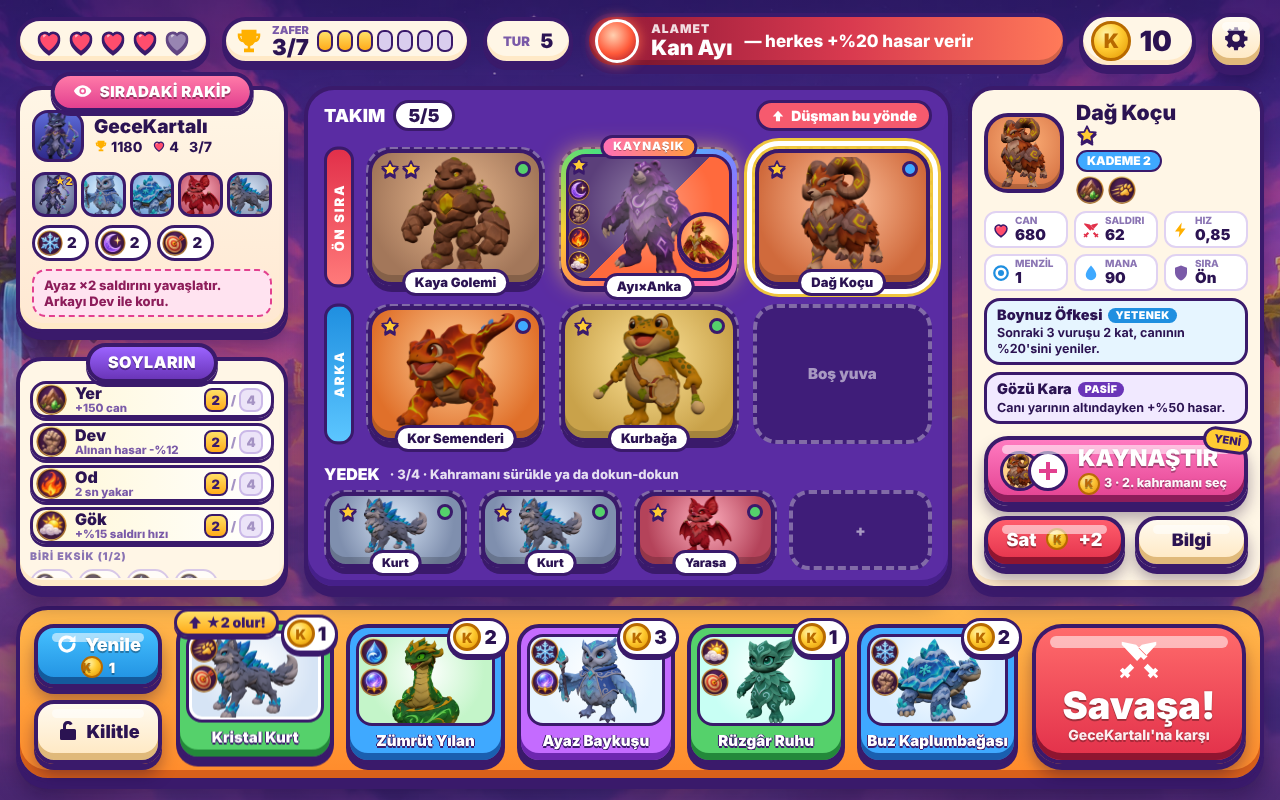
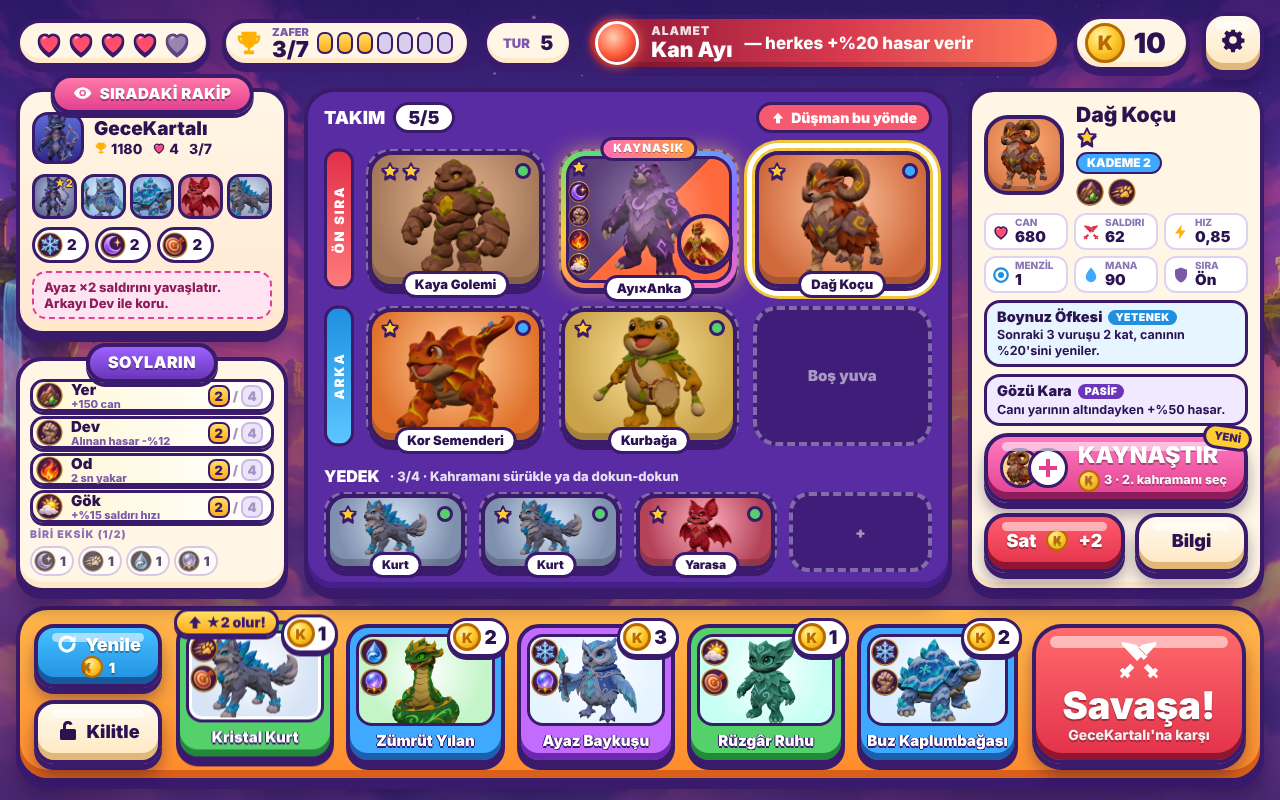
Kut Arena web: oyun mantığı modülü (oyun.js) ve testi; 3D sahnede gökyüzü, orta çizgi parıltısı, hasar sayısı yerleşimi düzeltildi
Claude-Session: https://claude.ai/code/session_013YjY38u1QoWroDMBh9Egyh

diff --git a/kut/tasarim/oneri_C/index.html b/kut/tasarim/oneri_C/index.html
@@ -51,7 +51,7 @@ button{font-family:inherit;border:0;background:none;color:inherit;cursor:pointer
 
 /* ---------- Şişkin düğme ---------- */
 .tb{--a:var(--altin);--b:var(--altin2);--k:var(--altinK);
-  position:relative;display:flex;align-items:center;justify-content:center;gap:10px;min-height:56px;min-width:56px;
+  position:relative;display:flex;align-items:center;justify-content:center;gap:10px;min-height:60px;min-width:60px;
   padding:0 20px 6px;border-radius:22px;border:4px solid var(--cizgi);font-weight:900;font-size:20px;color:#fff;
   background:linear-gradient(180deg,var(--a) 0%,var(--b) 100%);
   box-shadow:inset 0 -7px 0 var(--k),0 6px 0 var(--cizgi),0 12px 16px rgba(20,4,50,.35);
@@ -118,7 +118,7 @@ button{font-family:inherit;border:0;background:none;color:inherit;cursor:pointer
    2) MAÇ (DÜKKÂN + TAHTA)
    ===================================================================== */
 #mac .gok::after{background:linear-gradient(180deg,rgba(29,11,61,.55),rgba(29,11,61,.25) 30%,rgba(29,11,61,.55))}
-.macIzgara{position:absolute;inset:0;padding:12px 16px 18px;display:grid;grid-template-columns:272px 1fr 296px;grid-template-rows:58px 1fr 176px;gap:16px 16px}
+.macIzgara{position:absolute;inset:0;padding:12px 16px 18px;display:grid;grid-template-columns:272px 1fr 296px;grid-template-rows:62px 1fr 176px;gap:14px 16px}
 /* üst çubuk */
 .ustCubuk{grid-column:1/-1;display:flex;align-items:center;gap:12px}
 .canlar{display:flex;gap:2px;align-items:center}
@@ -137,7 +137,7 @@ button{font-family:inherit;border:0;background:none;color:inherit;cursor:pointer
 .altinHap .para{width:40px;height:40px;font-size:20px;border-width:3px}
 
 /* sol sütun */
-.solSutun{display:flex;flex-direction:column;gap:24px;min-height:0}
+.solSutun{display:flex;flex-direction:column;gap:22px;min-height:0}
 .rakipKart{padding:20px 12px 12px;background:linear-gradient(180deg,#fff6e6,#ffe8d2)}
 .rakipKart .baslikSerit{background:linear-gradient(#ff7aa8,#e2408f);font-size:15px}
 .rakipKart .baslikSerit svg{width:20px;height:20px}
@@ -156,19 +156,19 @@ button{font-family:inherit;border:0;background:none;color:inherit;cursor:pointer
 .soyCip img{width:26px;height:26px}
 .rakipIpucu{margin-top:8px;padding:6px 10px;border-radius:14px;background:#ffe3f0;border:2px dashed #e2408f;font-size:13px;font-weight:800;color:#8d1d5a;line-height:1.25}
 
-.soyPanel{flex:1;min-height:0;padding:20px 10px 8px;display:flex;flex-direction:column}
+.soyPanel{flex:1;min-height:0;padding:18px 10px 8px;display:flex;flex-direction:column}
 .soyPanel .baslikSerit{background:linear-gradient(#9b63ff,#6a35b8)}
-.soyListe{display:flex;flex-direction:column;gap:5px;overflow:hidden}
-.soySatir{display:flex;align-items:center;gap:8px;height:37px;flex:none;padding:0 8px 0 3px;border-radius:16px;background:#fff;border:3px solid #d9c9f0}
-.soySatir img{width:31px;height:31px}
+.soyListe{display:flex;flex-direction:column;gap:4px;overflow:hidden}
+.soySatir{display:flex;align-items:center;gap:8px;height:33px;flex:none;padding:0 8px 0 3px;border-radius:14px;background:#fff;border:3px solid #d9c9f0}
+.soySatir img{width:27px;height:27px}
 .soyDiger{display:flex;flex-wrap:nowrap;gap:4px;margin-top:1px}
 .soyDiger .soyCip{font-size:13px;opacity:.75;border-color:#cbb9e8;padding-right:6px;border-width:2px}
 .soyDiger .soyCip img{width:22px;height:22px;filter:grayscale(.6)}
 .soyDigerB{font-size:10.5px;font-weight:900;color:#8a74b3;letter-spacing:1px;margin-top:1px}
-.soySatir .ad{flex:1;font-weight:900;font-size:16px;line-height:1}
-.soySatir .ad small{display:block;font-size:11.5px;font-weight:800;color:#7a5aa8;margin-top:2px;white-space:nowrap}
+.soySatir .ad{flex:1;font-weight:900;font-size:15px;line-height:1}
+.soySatir .ad small{display:block;font-size:11px;font-weight:800;color:#7a5aa8;margin-top:2px;white-space:nowrap}
 .esik{display:flex;align-items:center;gap:3px;font-weight:900;font-size:13px;color:#a593c4}
-.esik i{display:grid;place-items:center;width:24px;height:24px;border-radius:8px;background:#ece4f8;border:2px solid #cbb9e8;font-style:normal}
+.esik i{display:grid;place-items:center;width:22px;height:22px;border-radius:8px;background:#ece4f8;border:2px solid #cbb9e8;font-style:normal}
 .soySatir.aktif{border-color:var(--cizgi);background:linear-gradient(90deg,#fff7d6,#fff);box-shadow:0 3px 0 var(--cizgi)}
 .soySatir.aktif .esik i.on{background:linear-gradient(#ffe066,#ffab1a);border-color:var(--cizgi);color:var(--cizgi)}
 .soySatir.pasif{opacity:.62}
@@ -246,7 +246,7 @@ button{font-family:inherit;border:0;background:none;color:inherit;cursor:pointer
 .kaynastirTb .metin small{font-size:12.5px;white-space:nowrap;display:flex;align-items:center;gap:4px;margin-top:3px}
 .kaynastirTb::after{content:"YENİ";position:absolute;right:-8px;top:-12px;padding:2px 8px 3px;border-radius:999px;background:var(--altin);border:3px solid var(--cizgi);color:var(--cizgi);font-size:11px;text-shadow:none;transform:rotate(8deg)}
 .satSira{display:flex;gap:10px}
-.satSira .tb{flex:1;font-size:18px;min-height:52px}
+.satSira .tb{flex:1;font-size:18px;min-height:60px}
 
 /* alt: dükkân */
 .dukkanCubuk{grid-column:1/-1;display:flex;gap:14px;align-items:stretch;padding:14px 14px 14px;border-radius:32px;
@@ -330,7 +330,7 @@ button{font-family:inherit;border:0;background:none;color:inherit;cursor:pointer
 .alametMini{display:flex;align-items:center;gap:8px;height:50px;padding:0 14px 0 4px;border-radius:999px;background:linear-gradient(90deg,#8d1636,#d93a4f);border:3px solid var(--cizgi);color:#fff;font-weight:900;font-size:15px;box-shadow:0 4px 0 var(--cizgi)}
 .alametMini .ay{width:32px;height:32px;border-radius:50%;background:radial-gradient(circle at 40% 35%,#ffd0b0,#ff5a3a 55%,#a3122a);border:2px solid #fff}
 .hizSec{display:flex;padding:4px;border-radius:24px;background:var(--krem);border:4px solid var(--cizgi);box-shadow:inset 0 -5px 0 var(--krem2),0 5px 0 var(--cizgi);gap:4px}
-.hizSec button{width:56px;height:50px;border-radius:17px;font-weight:900;font-size:21px;color:#8a74b3}
+.hizSec button{width:62px;height:58px;border-radius:17px;font-weight:900;font-size:21px;color:#8a74b3}
 .hizSec button.on{background:linear-gradient(var(--mavi),var(--mavi2));color:#fff;border:3px solid var(--cizgi);box-shadow:inset 0 -4px 0 var(--maviK);text-shadow:0 2px 0 rgba(0,0,0,.25)}
 .durdurTb{width:62px;height:62px;padding:0 0 6px;border-radius:22px;font-size:26px}
 .durdurTb::before{left:10px;right:10px}
@@ -376,7 +376,7 @@ button{font-family:inherit;border:0;background:none;color:inherit;cursor:pointer
    4) MAÇ SONU
    ===================================================================== */
 #son .kartAlan{position:absolute;inset:0;display:flex;align-items:center;justify-content:center;padding:44px 24px 24px}
-.sonKart{width:900px;padding:58px 34px 28px;display:flex;flex-direction:column;gap:18px}
+.sonKart{width:960px;padding:58px 34px 28px;display:flex;flex-direction:column;gap:18px}
 .sonSerit{position:absolute;left:50%;top:-56px;transform:translateX(-50%);display:flex;align-items:center;justify-content:center;width:520px;height:100px;border-radius:34px;
   background:linear-gradient(180deg,#5af08a,#1fae55);border:5px solid var(--cizgi);box-shadow:inset 0 -9px 0 rgba(0,0,0,.18),0 7px 0 var(--cizgi)}
 .sonSerit h2{font-size:64px;font-weight:900;letter-spacing:3px}
@@ -386,11 +386,11 @@ button{font-family:inherit;border:0;background:none;color:inherit;cursor:pointer
 .bolum{display:flex;align-items:center;gap:16px}
 .bolum>label{width:120px;font-weight:900;font-size:15px;color:#7a5aa8;text-align:right;flex:none;line-height:1.15}
 .turGecmis{display:flex;gap:8px;flex-wrap:wrap}
-.turTop{width:52px;height:56px;border-radius:18px;border:3px solid var(--cizgi);display:flex;flex-direction:column;align-items:center;justify-content:center;font-weight:900;color:#fff;box-shadow:inset 0 -5px 0 rgba(0,0,0,.18),0 4px 0 var(--cizgi);text-shadow:0 2px 0 rgba(0,0,0,.25)}
+.turTop{width:50px;height:56px;border-radius:18px;border:3px solid var(--cizgi);display:flex;flex-direction:column;align-items:center;justify-content:center;font-weight:900;color:#fff;box-shadow:inset 0 -5px 0 rgba(0,0,0,.18),0 4px 0 var(--cizgi);text-shadow:0 2px 0 rgba(0,0,0,.25)}
 .turTop small{font-size:10px;opacity:.9}
 .turTop b{font-size:21px;line-height:1}
 .turTop.k{background:linear-gradient(#5af08a,#22b552)}.turTop.y{background:linear-gradient(#ff8a96,#e2304a)}
-.kupaSatir{flex:1;display:flex;align-items:center;gap:14px}
+.kupaSatir{flex:1;min-width:0;display:flex;align-items:center;gap:14px}
 .kupaBar{flex:1;height:30px;border-radius:999px;background:#e9def8;border:3px solid var(--cizgi);position:relative;overflow:hidden}
 .kupaBar i{position:absolute;left:0;top:0;bottom:0;width:62%;background:linear-gradient(#ffe066,#ffab1a);border-radius:999px}
 .kupaBar i.yeni{left:62%;width:9%;background:linear-gradient(#7af59a,#22b552);border-radius:0 999px 999px 0}
@@ -407,9 +407,9 @@ button{font-family:inherit;border:0;background:none;color:inherit;cursor:pointer
 .sonTakim .miniP .ek img{position:static;width:120%;margin:0 0 0 -10%}
 .ustalikCip{display:flex;align-items:center;gap:5px;padding:4px 12px 5px 4px;border-radius:999px;background:#f1e9ff;border:3px solid var(--mor2);font-weight:900;font-size:14px;color:var(--mor2);margin-left:auto}
 .ustalikCip .rz{width:28px;height:28px;border-radius:50%;background:linear-gradient(#b98bff,#7339e0);display:grid;place-items:center;color:#fff;border:2px solid var(--cizgi)}
-.kodSatir{flex:1;display:flex;gap:10px;align-items:center}
-.kodKutu{flex:1;min-width:0;height:60px;display:flex;align-items:center;padding:0 16px;border-radius:18px;background:#2a1250;border:4px solid var(--cizgi);color:#ffe066;font-family:"JetBrains Mono",ui-monospace,monospace;font-weight:800;font-size:17px;letter-spacing:.5px;white-space:nowrap;overflow:hidden;text-overflow:ellipsis;box-shadow:inset 0 5px 0 rgba(0,0,0,.35)}
-.kodSatir .tb{min-height:60px;font-size:18px;padding:0 16px 6px;flex:none}
+.kodSatir{flex:1;min-width:0;display:flex;gap:10px;align-items:center}
+.kodKutu{flex:1;min-width:0;height:60px;display:flex;align-items:center;padding:0 16px;border-radius:18px;background:#2a1250;border:4px solid var(--cizgi);color:#ffe066;font-family:"JetBrains Mono",ui-monospace,monospace;font-weight:800;font-size:15px;letter-spacing:0;white-space:nowrap;overflow:hidden;text-overflow:ellipsis;box-shadow:inset 0 5px 0 rgba(0,0,0,.35)}
+.kodSatir .tb{min-height:60px;font-size:18px;padding:0 14px 6px;flex:none}
 .sonDugme{display:flex;gap:16px;justify-content:center;margin-top:6px}
 .sonDugme .tb{min-height:78px;font-size:28px;border-radius:28px;padding:0 34px 7px}
 .sonDugme .tb svg{width:32px;height:32px}
@@ -505,7 +505,7 @@ button{font-family:inherit;border:0;background:none;color:inherit;cursor:pointer
         <div class="hap" style="padding:0 16px;font-size:20px"><span style="font-size:13px;color:#7a5aa8;margin-right:2px">TUR</span>5</div>
         <div class="alametSerit"><div class="ay"></div><div style="min-width:0;display:flex;flex-direction:column"><small>ALAMET</small><b>Kan Ayı</b></div><span>— herkes +%20 hasar verir</span></div>
         <div class="hap altinHap"><span class="para">K</span>10</div>
-        <button class="tb krem yuvarlakTb" style="width:56px;height:56px;font-size:26px" aria-label="Ayarlar"><svg class="i"><use href="#i-cark"/></svg></button>
+        <button class="tb krem yuvarlakTb" style="width:62px;height:62px;font-size:26px" aria-label="Ayarlar"><svg class="i"><use href="#i-cark"/></svg></button>
       </div>
 
       <!-- sol -->
@@ -591,7 +591,7 @@ button{font-family:inherit;border:0;background:none;color:inherit;cursor:pointer
     <div class="kartAlan">
       <div class="panel sonKart">
         <div class="sonSerit"><div class="kup s"><svg class="i"><use href="#i-yildiz"/></svg></div><h2 class="kontur">ŞAMPİYON!</h2><div class="kup g"><svg class="i"><use href="#i-kupa"/></svg></div></div>
-        <div class="sonAlt">7 zafer · 9 turda · 2 can kaldı</div>
+        <div class="sonAlt">7 zafer · 10 turda · 2 can kaldı</div>
         <div class="bolum"><label>TUR<br>GEÇMİŞİ</label><div class="turGecmis" id="turGecmis"></div></div>
         <div class="bolum"><label>KUPA</label>
           <div class="kupaSatir"><div class="say"><svg class="i"><use href="#i-kupa"/></svg>1200</div><div class="kupaBar"><i></i><i class="yeni"></i></div><div class="say"><svg class="i"><use href="#i-kupa"/></svg>1240</div><div class="degisim">+40</div></div></div>
@@ -726,7 +726,7 @@ button{font-family:inherit;border:0;background:none;color:inherit;cursor:pointer
     <div class="hasar" style="left:28%;top:24%">-62</div>
     <div class="hasar yet" style="left:61%;top:33%">-320</div>
     <div class="yetEtiket" style="left:61%;top:26.5%">Kara Gölge!</div>
-    <div class="hasar iyi" style="left:45%;top:64%">+110</div>
+    <div class="hasar iyi" style="left:47%;top:69%">+110</div>
     <div class="hasar kalk" style="left:28%;top:49%">+90 kalkan</div>
     <div class="hasar" style="left:71%;top:50%">-48</div>`);
   $('skorB').innerHTML=[1,1,1,1,1].map(()=>'<i></i>').join('');
@@ -751,7 +751,7 @@ button{font-family:inherit;border:0;background:none;color:inherit;cursor:pointer
   }
 
   /* ----- SON ----- */
-  const turlar=['k','k','y','k','y','k','k','y','k'];
+  const turlar=['k','k','y','k','y','k','k','y','k','k'];
   $('turGecmis').innerHTML=turlar.map((t,i)=>`<div class="turTop ${t}"><small>TUR</small><b>${i+1}</b></div>`).join('');
   const sonT=[['golem',3],['ayi',2,'anka'],['koc',2],['semender',1],['kurbaga',2],['baykus',1]];
   $('sonTakim').innerHTML=sonT.map(([id,s,f])=>f

diff --git a/kut/web/oyun.js b/kut/web/oyun.js
@@ -1,0 +1,138 @@
+/* Kut Arena — oyun mantığı (arayüzden bağımsız). Kurallar ../TASARIM.md; prototip ../game.js ile aynı.
+   Arayüz yalnız durumu okur (oyun.P, oyun.M) ve eylemleri çağırır; her değişiklikten sonra 'degisti' olayı gelir. */
+const D = window.KUT_DATA, S = window.KUT_SIM, O = window.KUT_ONLINE, K = D.KURAL;
+const PANAHTAR = 'kut.profil.v2';
+
+export class Oyun {
+  constructor() {
+    this.P = this._oku() || { kupa: 0, usta: {}, oyuncu: Math.random().toString(36).slice(2, 10), ad: 'Oyuncu', sonTakim: null, mac: null, istat: { mac: 0, birinci: 0 } };
+    this.M = this.P.mac; this.secili = null; this.kaynasMod = false; this._dinle = {};
+  }
+  on(olay, fn) { (this._dinle[olay] = this._dinle[olay] || []).push(fn); }
+  _yay(olay, veri) { (this._dinle[olay] || []).forEach(f => f(veri)); }
+  _oku() { try { return JSON.parse(localStorage.getItem(PANAHTAR)); } catch (e) { return null; } }
+  kaydet() { try { localStorage.setItem(PANAHTAR, JSON.stringify(this.P)); } catch (e) {} }
+  _degisti() { this.kaydet(); this._yay('degisti'); }
+  bildir(m, tur = 'bilgi') { this._yay('bildirim', { m, tur }); }
+
+  // ── profil ──
+  ustaSv(id) { return Math.floor((this.P.usta[id] || 0) / 5); }
+  ustaToplam() { return Object.keys(this.P.usta).reduce((s, k) => s + this.ustaSv(k), 0); }
+
+  // ── maç ──
+  yeniMac() {
+    this.P.mac = { tur: 1, can: K.can, zafer: 0, altin: 0, tahta: Array(6).fill(null), yedek: Array(K.yedek).fill(null), dukkan: [], kilit: false,
+      tohum: (Math.random() * 1e9) | 0, zar: 1, alamet: 'yok', rakip: null, gecmis: [] };
+    this.M = this.P.mac; return this.turBaslat(false);
+  }
+  _zar() { const M = this.M; M.zar = (M.zar * 1103515245 + 12345) & 0x7fffffff; return M.zar / 0x7fffffff; }
+  async turBaslat(devam) {
+    const M = this.M = this.P.mac; this.secili = null; this.kaynasMod = false;
+    if (!devam) {
+      M.alamet = M.tur === 1 ? 'yok' : D.ALAMETLER[Math.floor(this._zar() * D.ALAMETLER.length)].id;
+      M.altin = K.altinTur + (M.alamet === 'pazar' ? 2 : 0);
+      if (!M.kilit || !M.dukkan.length) this._dukkanDoldur(); M.kilit = false;
+      M.rakip = null; this._degisti();
+      M.rakip = await O.Hayalet.bul({ tur: M.tur, kupa: this.P.kupa, oyuncu: this.P.oyuncu, tohum: M.tohum + M.tur * 31 });
+    }
+    this._degisti();
+  }
+  _dukkanDoldur() {
+    const M = this.M, ol = K.kademeOlasilik(M.tur);
+    M.dukkan = Array.from({ length: K.dukkan }, () => { const r = this._zar(); const k = r < ol[0] ? 1 : r < ol[0] + ol[1] ? 2 : 3; const l = D.KAHRAMANLAR.filter(h => h.kademe === k); return l[Math.floor(this._zar() * l.length)].id; });
+  }
+  tahtaSay() { return this.M.tahta.filter(Boolean).length; }
+  yuva() { return K.yuva(this.M.tur); }
+  al(s) { return s ? this.M[s.yer][s.i] : null; }
+  _koy(s, v) { this.M[s.yer][s.i] = v; }
+  sahipMi(id) { return [...this.M.tahta, ...this.M.yedek].some(b => b && !b.f && b.h === id && b.s === 1); }
+  birlesirMi(id) { return [...this.M.tahta, ...this.M.yedek].filter(b => b && !b.f && b.h === id && b.s === 1).length >= 2; }
+
+  yenile() { const M = this.M; if (M.altin < K.yenile) return this.bildir('Altın yetmiyor', 'hata'); M.altin -= K.yenile; this._dukkanDoldur(); this._yay('ses', 'yenile'); this._degisti(); }
+  kilit() { this.M.kilit = !this.M.kilit; this._degisti(); }
+
+  satinAl(i) {
+    const M = this.M, id = M.dukkan[i]; if (!id) return;
+    const f = D.kahraman(id).kademe; if (M.altin < f) return this.bildir('Altın yetmiyor', 'hata');
+    const ayni = [...M.tahta, ...M.yedek].filter(b => b && !b.f && b.h === id && b.s === 1).length;
+    let yer = null;
+    if (ayni < 2) {
+      const ti = M.tahta.findIndex(x => !x);
+      if (this.tahtaSay() < this.yuva() && ti >= 0) yer = { yer: 'tahta', i: ti };
+      else { const yi = M.yedek.findIndex(x => !x); if (yi >= 0) yer = { yer: 'yedek', i: yi }; }
+      if (!yer) return this.bildir('Yer yok: sat ya da kaynaştır', 'hata');
+    } else { const yi = M.yedek.findIndex(x => !x), ti = M.tahta.findIndex(x => !x); yer = yi >= 0 ? { yer: 'yedek', i: yi } : { yer: 'tahta', i: ti }; }
+    this._koy(yer, { h: id, s: 1 }); M.altin -= f; M.dukkan[i] = null;
+    this._yay('satinAlindi', { id, yer });
+    this._birlestir(id); this._degisti();
+  }
+  _birlestir(id) {
+    const M = this.M;
+    for (const s of [1, 2]) {
+      const yerler = []; for (const yer of ['tahta', 'yedek']) M[yer].forEach((b, i) => { if (b && !b.f && b.h === id && b.s === s) yerler.push({ yer, i }); });
+      if (yerler.length >= 3) { const [ilk, ...kalan] = yerler.slice(0, 3); kalan.forEach(y => this._koy(y, null)); this._koy(ilk, { h: id, s: s + 1 }); this._yay('birlesti', { id, s: s + 1, yer: ilk }); this.bildir(`⭐ ${D.kahraman(id).ad} ★${s + 1}!`, 'iyi'); }
+    }
+  }
+  /** Yuvaya dokunma: seçme, taşıma/yer değiştirme ya da kaynaştırma (kaynasMod açıksa). */
+  yuvaDokun(yer, i) {
+    const M = this.M, hedef = { yer, i }, b = M[yer][i];
+    if (this.secili && this.kaynasMod) {
+      const a = this.al(this.secili);
+      if (!b || (this.secili.yer === yer && this.secili.i === i)) { this.kaynasMod = false; return this._degisti(); }
+      if (a.f || b.f) return this.bildir('Kaynaşmış kahraman tekrar kaynaşmaz', 'hata');
+      if (a.h === b.h) return this.bildir('Aynı kahraman kaynaşmaz: üç tanesi zaten ★ olur', 'hata');
+      if (M.altin < K.kaynastir) return this.bildir(`${K.kaynastir} altın gerekli`, 'hata');
+      M.altin -= K.kaynastir;
+      const yeni = { h: a.h, f: b.h, s: Math.min(a.s, b.s) };
+      this._koy(this.secili, yeni); this._koy(hedef, null);
+      this._yay('kaynasti', { a: a.h, b: b.h, yer: this.secili });
+      this.kaynasMod = false; this.bildir(`🔥 ${this.birimAd(yeni)} doğdu!`, 'iyi'); return this._degisti();
+    }
+    if (!this.secili) { if (b) this.secili = hedef; return this._degisti(); }
+    if (this.secili.yer === yer && this.secili.i === i) { this.secili = null; return this._degisti(); }
+    const a = this.al(this.secili);
+    if (yer === 'tahta' && this.secili.yer === 'yedek' && !b && this.tahtaSay() >= this.yuva()) return this.bildir(`Bu tur en fazla ${this.yuva()} kahraman`, 'hata');
+    this._koy(this.secili, b); this._koy(hedef, a); this.secili = null; this._degisti();
+  }
+  kaynasModDegistir() { this.kaynasMod = !this.kaynasMod; this._degisti(); }
+  satisDegeri(b) { const d = (h) => D.kahraman(h).kademe; return b.s === 1 ? d(b.h) + (b.f ? d(b.f) : 0) : d(b.h) * (b.s === 2 ? 3 : 9) - 1; }
+  sat() { const b = this.al(this.secili); if (!b) return; this.M.altin += this.satisDegeri(b); this._koy(this.secili, null); this.secili = null; this.kaynasMod = false; this._yay('ses', 'sat'); this._degisti(); }
+  birimAd(b) { return b.f ? D.kahraman(b.h).ad.split(' ')[0] + ' × ' + D.kahraman(b.f).ad.split(' ')[0] : D.kahraman(b.h).ad; }
+  takim() { return this.M.tahta.map((b, i) => b && { h: b.h, s: b.s, ...(b.f ? { f: b.f } : {}), x: i % 3, y: Math.floor(i / 3) }).filter(Boolean); }
+  soylar(takim) { return S.soySay(takim || this.takim()); }
+
+  /** Savaşı hazırla: motor nesnesini döndürür (sahne onu oynatır). */
+  savasHazirla() {
+    const M = this.M, takim = this.takim();
+    if (!takim.length) { this.bildir('Tahtaya en az 1 kahraman koy', 'hata'); return null; }
+    if (!M.rakip) { this.bildir('Rakip aranıyor…'); return null; }
+    this._savas = { benim: takim, rakip: M.rakip, alamet: M.alamet, tohum: M.tohum + M.tur, kayit: [] };
+    return S.Savas(takim, M.rakip.takim, { tohum: this._savas.tohum, alamet: M.alamet, yz: [1], kayit: this._savas.kayit });
+  }
+  duelloHazirla(kod) {
+    const r = O.coz(kod); if (!r) { this.bildir('Kod çözülemedi', 'hata'); return null; }
+    if (!this.P.sonTakim) { this.bildir('Önce bir maç oyna', 'hata'); return null; }
+    const alamet = D.ALAMETLER[Math.floor(Math.random() * D.ALAMETLER.length)].id, tohum = (Math.random() * 1e9) | 0;
+    this._savas = { benim: this.P.sonTakim, rakip: { ad: r.ad || 'Arkadaş', takim: r.takim, kaynak: 'duello' }, alamet, tohum, duello: true, kayit: [] };
+    return S.Savas(this.P.sonTakim, r.takim, { tohum, alamet, yz: [1], kayit: this._savas.kayit });
+  }
+  /** Savaş bitti: sonucu işle; maç bittiyse özet döner. */
+  savasBitti(sonuc) {
+    const b = this._savas, k = sonuc.kazanan; if (!b) return null;
+    if (b.duello) { this._savas = null; return { duello: true, kazanan: k }; }
+    const M = this.M;
+    O.Hayalet.birak({ tur: M.tur, kupa: this.P.kupa, takim: b.benim, ad: this.P.ad, oyuncu: this.P.oyuncu });
+    if (k === 0) { M.zafer++; for (const t of b.benim) { this.P.usta[t.h] = (this.P.usta[t.h] || 0) + 1; if (t.f) this.P.usta[t.f] = (this.P.usta[t.f] || 0) + 1; } }
+    else if (k === 1) M.can--;
+    M.gecmis.push(k); this.P.sonTakim = b.benim; this._savas = null;
+    if (M.zafer >= K.zaferHedef || M.can <= 0) return this._macBitti();
+    M.tur++; this.kaydet(); return { devam: true, kazanan: k };
+  }
+  _macBitti() {
+    const M = this.M, kazandi = M.zafer >= K.zaferHedef, fark = kazandi ? 40 : M.zafer * 8 - 30;
+    this.P.kupa = Math.max(0, this.P.kupa + fark); this.P.istat.mac++; if (kazandi) this.P.istat.birinci++;
+    const ozet = { bitti: true, kazandi, fark, kupa: this.P.kupa, gecmis: M.gecmis.slice(), kod: O.kodla(this.P.sonTakim, this.P.ad), takim: this.P.sonTakim, zafer: M.zafer, tur: M.tur };
+    this.P.mac = null; this.M = null; this.kaydet(); return ozet;
+  }
+  duelloKodu() { return this.P.sonTakim ? O.kodla(this.P.sonTakim, this.P.ad) : null; }
+}

diff --git a/kut/web/sahne3d.js b/kut/web/sahne3d.js
@@ -53,12 +53,12 @@ let kaplama, kcx;           // 2D kaplama (çubuklar, sayılar)
 let dinleyici = {};
 
 // ── Kurulum ──
-export async function hazirla(tuval, kaplamaTuval, kok = '') {
+export async function hazirla(tuval, kaplamaTuval, kok = '', { hafif = false } = {}) {
   if (renderer) return;
-  renderer = new THREE.WebGLRenderer({ canvas: tuval, antialias: true, powerPreference: 'high-performance' });
-  renderer.setPixelRatio(Math.min(2, window.devicePixelRatio || 1));
+  renderer = new THREE.WebGLRenderer({ canvas: tuval, antialias: !hafif, powerPreference: 'high-performance' });
+  renderer.setPixelRatio(hafif ? 1 : Math.min(2, window.devicePixelRatio || 1));
   renderer.outputColorSpace = THREE.SRGBColorSpace; renderer.toneMapping = THREE.ACESFilmicToneMapping; renderer.toneMappingExposure = 1.05;
-  renderer.shadowMap.enabled = true; renderer.shadowMap.type = THREE.PCFSoftShadowMap;
+  renderer.shadowMap.enabled = !hafif; renderer.shadowMap.type = THREE.PCFSoftShadowMap;
   kaplama = kaplamaTuval; kcx = kaplama.getContext('2d');
   sahne = new THREE.Scene();
   kamera = new THREE.PerspectiveCamera(38, 16 / 10, 0.1, 200);
@@ -67,8 +67,9 @@ export async function hazirla(tuval, kaplamaTuval, kok = '') {
   const tl = new THREE.TextureLoader();
   // gökyüzü: büyük küre iç yüzü
   const gok = tl.load(kok + '../gorsel/gokyuzu.webp'); gok.colorSpace = THREE.SRGBColorSpace;
-  const kure = new THREE.Mesh(new THREE.SphereGeometry(80, 48, 24, 0, Math.PI * 2, 0, Math.PI * 0.62), new THREE.MeshBasicMaterial({ map: gok, side: THREE.BackSide, fog: false }));
-  kure.rotation.y = Math.PI; kure.position.y = -18; sahne.add(kure);
+  const kure = new THREE.Mesh(new THREE.SphereGeometry(90, 64, 32), new THREE.MeshBasicMaterial({ map: gok, side: THREE.BackSide, fog: false }));
+  kure.rotation.y = Math.PI; kure.position.y = 6; sahne.add(kure);
+  sahne.background = new THREE.Color('#7d4d9e');
   sahne.fog = new THREE.Fog('#8a5aa8', 30, 75);
   // ışık: gün batımı
   sahne.add(new THREE.HemisphereLight('#ffd9f2', '#4a2f5c', 1.15));
@@ -111,8 +112,11 @@ async function arenaKur(kok, tl) {
   // orta çizgi (altın, parlak)
   const cizgi = new THREE.Mesh(new THREE.PlaneGeometry(6.4, 0.07), new THREE.MeshBasicMaterial({ color: '#ffc94a', transparent: true, opacity: 0.95 }));
   cizgi.rotation.x = -Math.PI / 2; cizgi.position.y = 0.02; sahne.add(cizgi);
-  const parilti = new THREE.Mesh(new THREE.PlaneGeometry(6.6, 0.5), new THREE.MeshBasicMaterial({ color: '#ffb43a', transparent: true, opacity: 0.25, blending: THREE.AdditiveBlending, depthWrite: false }));
-  parilti.rotation.x = -Math.PI / 2; parilti.position.y = 0.021; sahne.add(parilti);
+  { const c = document.createElement('canvas'); c.width = 8; c.height = 64; const x = c.getContext('2d'); const g = x.createLinearGradient(0, 0, 0, 64);
+    g.addColorStop(0, 'rgba(255,190,70,0)'); g.addColorStop(0.5, 'rgba(255,190,70,0.55)'); g.addColorStop(1, 'rgba(255,190,70,0)'); x.fillStyle = g; x.fillRect(0, 0, 8, 64);
+    const parilti = new THREE.Mesh(new THREE.PlaneGeometry(6.1, 0.6), new THREE.MeshBasicMaterial({ map: new THREE.CanvasTexture(c), transparent: true, blending: THREE.AdditiveBlending, depthWrite: false }));
+    parilti.rotation.x = -Math.PI / 2; parilti.position.y = 0.021; sahne.add(parilti);
+    efektler.push({ kalici: true, o: parilti, guncelle: (t) => { parilti.material.opacity = 0.75 + Math.sin(t * 2.2) * 0.25; } }); }
   // çevre nesneleri
   const koy = (g, x, z, boy, ry = 0, eksen = 'y') => { const o = g.scene.clone(); golgeAc(o); olcekle(o, boy, eksen); const kk = new THREE.Box3().setFromObject(o); o.position.set(x, -kk.min.y, z); o.rotation.y = ry; sahne.add(o); return o; };
   koy(kemer, 0, -6.2, 3.2, 0); koy(kemer, -4.6, -4.6, 2.4, 0.75); koy(kemer, 4.6, -4.6, 2.4, -0.75);
@@ -416,7 +420,10 @@ function flasBitir(b) { b.model.traverse(m => { if (m.isMesh && m.userData.flas)
 
 // ── 2D kaplama: çubuklar, durumlar, sayılar ──
 function ekran(p) { const v = p.clone().project(kamera), c = kaplama; const w = c.clientWidth, h = c.clientHeight; return { x: (v.x + 1) / 2 * w, y: (1 - v.y) / 2 * h, z: v.z }; }
-function yaziEkle(b, metin, renk, olcek = 1, buyuk = false) { yazilar.push({ p: b.kok.position.clone().add(new THREE.Vector3((Math.random() - 0.5) * 0.3, 1.5 * b.kok.scale.y, 0)), metin, renk, yas: 0, olcek, buyuk }); }
+function yaziEkle(b, metin, renk, olcek = 1, buyuk = false) {
+  const ayni = yazilar.filter(y => y.uid === b.uid && y.yas < 0.35).length;
+  yazilar.push({ uid: b.uid, p: b.kok.position.clone().add(new THREE.Vector3(((ayni % 3) - 1) * 0.32, 1.5 * b.kok.scale.y + Math.floor(ayni / 3) * 0.22, 0)), metin, renk, yas: 0, olcek, buyuk });
+}
 function sayiGoster(f) {
   const b = birimler.get(f.u); if (!b) return;
   const m = { hasar: ['-' + f.n, f.n >= 200 ? '#ffd84a' : '#ffffff'], dot: ['-' + f.n, '#ffb36a'], iyi: ['+' + f.n, '#7dffa0'], kalkan: ['🛡' + f.n, '#dfe9ff'], kac: ['kaçtı', '#cfcfcf'] }[f.tip];
@@ -516,3 +523,5 @@ export function dokun(x, y) {
 }
 export function zafer(taraf) { for (const b of birimler.values()) if (b.u.taraf === taraf && b.olumT < 0 && b.isk) { oyna(b, 'Dance_Loop', { dongu: true, gecis: 0.2 }); b.durum = 'zafer'; } }
 export function temizle() { sim = null; }
+// hata ayıklama: yakın kamera
+export function yakinKamera(uid, uzak = 2.4, aci = 0.5) { const b = birimler.get(uid); if (!b) return; const p = b.kok.position; kamera.position.set(p.x + Math.sin(aci) * uzak, 1.4, p.z + Math.cos(aci) * uzak); kamera.lookAt(p.x, 0.6, p.z); }

diff --git a/kut/web/test3d.html b/kut/web/test3d.html
@@ -10,7 +10,8 @@ const tur=+(q.get('tur')||7), tohum=+(q.get('tohum')||3);
 let A=KUT_ONLINE.botTakim(tur,tohum,0.6), B=KUT_ONLINE.botTakim(tur,tohum+50,0.6);
 if(q.get('takim')==='hepsi'){ const H=KUT_DATA.KAHRAMANLAR.map(h=>h.id); A=H.slice(0,6).map((h,k)=>({h,s:1+(k%3),x:k%3,y:Math.floor(k/3)})); B=H.slice(6,12).map((h,k)=>({h,s:1,x:k%3,y:Math.floor(k/3)})); }
 if(q.get('takim')==='hepsi2'){ const H=KUT_DATA.KAHRAMANLAR.map(h=>h.id); A=H.slice(10,16).map((h,k)=>({h,s:1,x:k%3,y:Math.floor(k/3)})); B=H.slice(0,6).map((h,k)=>({h,s:2,x:k%3,y:Math.floor(k/3)})); }
-await S3.hazirla(document.getElementById('t'), document.getElementById('k'));
+if(q.get('a')){ const yap=(l)=>l.split(',').map((h,k)=>({h,s:1,x:k%3,y:Math.floor(k/3)})); A=yap(q.get('a')); B=yap(q.get('b')); }
+await S3.hazirla(document.getElementById('t'), document.getElementById('k'), '', {hafif: !!q.get('hafif')});
 const sim=KUT_SIM.Savas(A,B,{tohum, alamet:'yok', yz:[1]});
 await S3.savasKur(sim);
 window.HAZIR=true; window.SAHNE=S3; window.SIM=sim;
